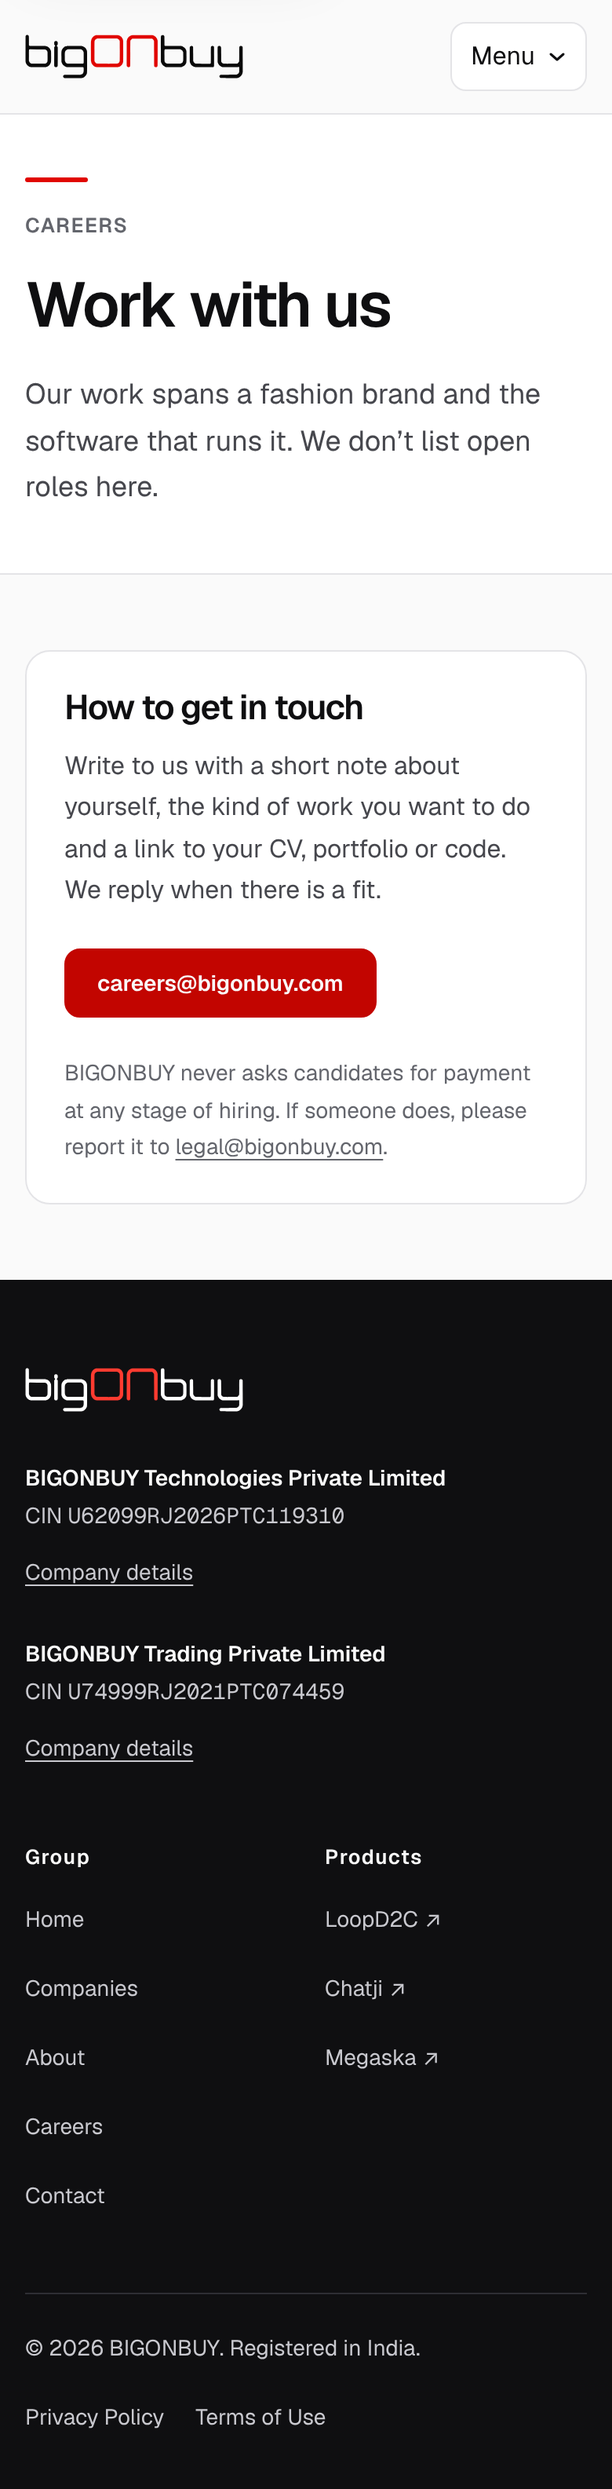
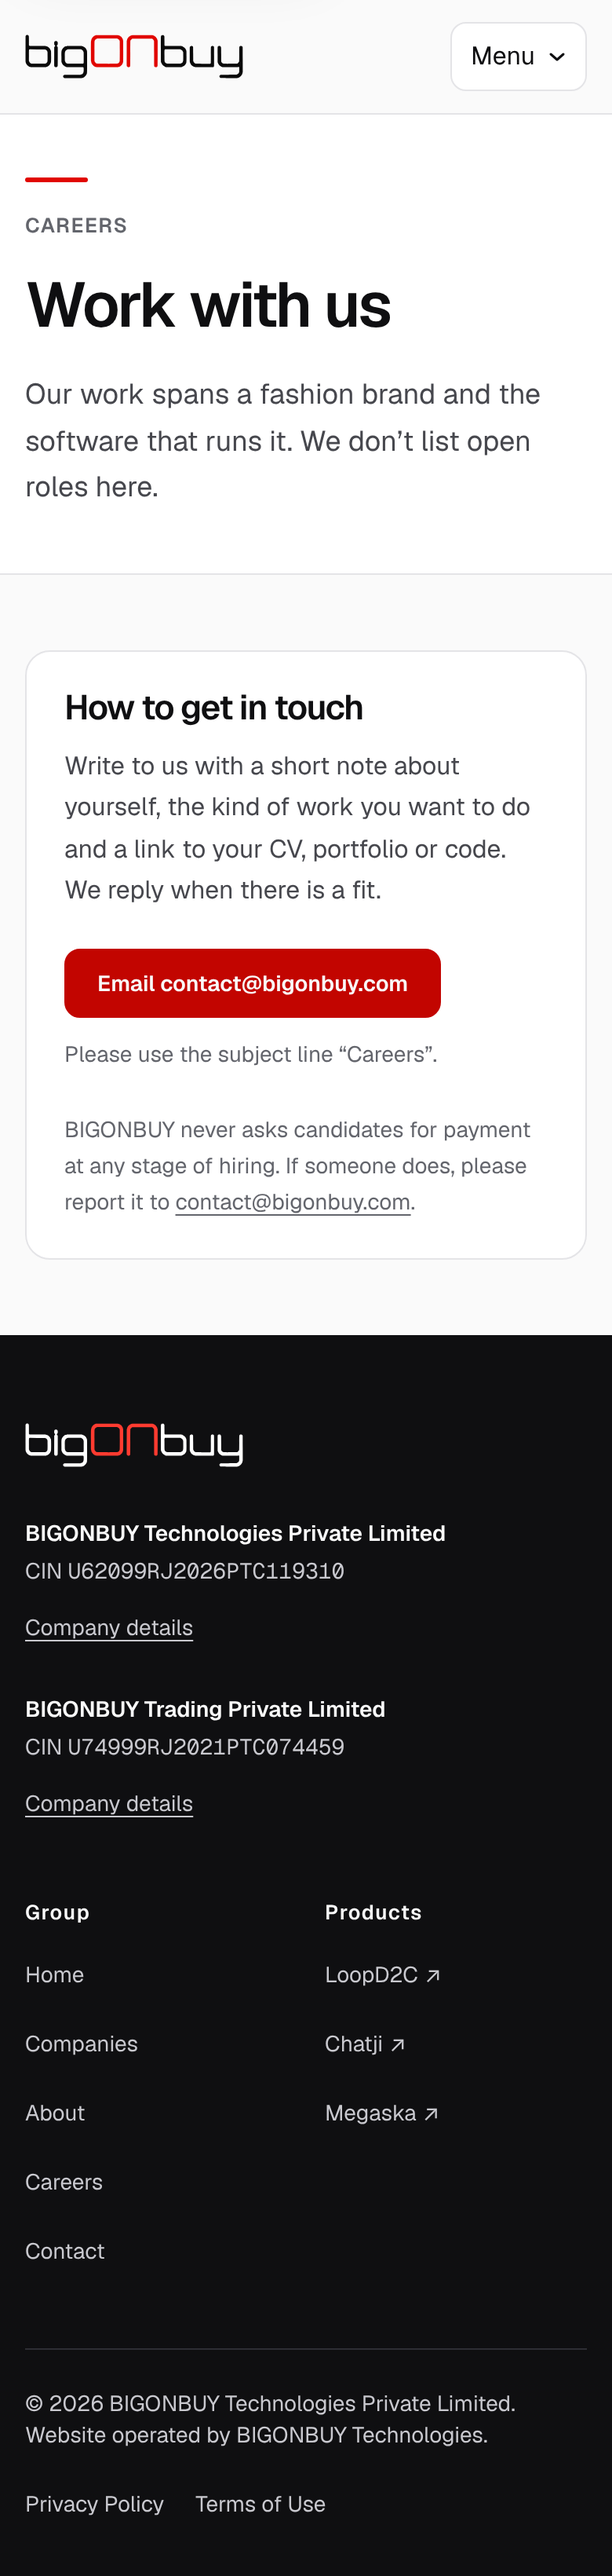
Use contact@bigonbuy.com for all enquiries; name Technologies as site operator
All contact routes share one mailbox with a pre-filled subject per topic.
The website operator is set once in config (BIGONBUY Technologies) and used
by the privacy policy, terms, footer and page metadata.

Claude-Session: https://claude.ai/code/session_01Jvz5mRUoQkmn8kLwUTEMgb

diff --git a/src/app/contact/page.tsx b/src/app/contact/page.tsx
@@ -2,7 +2,7 @@ import type { Metadata } from "next";
 import { ExternalLink } from "@/components/content/external-link";
 import { PageHeader } from "@/components/content/page-header";
 import { Container, Section, Text } from "@/components/foundation";
-import { companies, products, siteConfig } from "@/config/site";
+import { companies, products, siteConfig, CONTACT_EMAIL, mailtoHref } from "@/config/site";
 import { createPageMetadata } from "@/lib/metadata";
 
 export const metadata: Metadata = createPageMetadata({
@@ -19,19 +19,24 @@ export default function ContactPage() {
       <PageHeader
         eyebrow="Contact"
         title="Contact the group"
-        lead="For company matters, write to the right inbox below. If you are a customer of one of our products, please use that product’s support so your request reaches the right team."
+        lead="For company matters, write to us at the address below. If you are a customer of one of our products, please use that product’s support so your request reaches the right team."
       />
 
       <Section spacing="standard" aria-labelledby="group-contact-heading">
         <Container width="standard">
           <Text as="h2" role="h2" id="group-contact-heading">Company enquiries</Text>
+          <Text className="mt-3 max-w-[var(--content-reading)] text-[var(--color-foreground-muted)]">
+            Write to{" "}
+            <a href={`mailto:${CONTACT_EMAIL}`} className="font-semibold text-[var(--color-brand)] underline">{CONTACT_EMAIL}</a>
+            . Choosing a topic below opens your email app with the subject filled in, so your message reaches the right person faster.
+          </Text>
           <ul className="mt-8 grid list-none gap-5 p-0 sm:grid-cols-2">
             {groupRoutes.map((route) => (
-              <li key={route.id} className="rounded-[var(--radius-large)] border border-[var(--color-border)] bg-[var(--color-surface)] p-6">
+              <li key={route.id} className="flex flex-col rounded-[var(--radius-large)] border border-[var(--color-border)] bg-[var(--color-surface)] p-6">
                 <Text as="h3" role="body-large" className="font-semibold">{route.label}</Text>
-                <Text className="mt-1 text-[var(--color-foreground-muted)]">{route.description}</Text>
-                <a href={`mailto:${route.email}`} className="mt-4 inline-flex min-h-11 items-center font-medium text-[var(--color-brand)] underline">
-                  {route.email}
+                <Text className="mt-1 flex-1 text-[var(--color-foreground-muted)]">{route.description}</Text>
+                <a href={mailtoHref(route)} className="mt-4 inline-flex min-h-11 items-center font-medium text-[var(--color-brand)] underline">
+                  Email about {route.label.toLowerCase()}
                 </a>
               </li>
             ))}
@@ -43,7 +48,7 @@ export default function ContactPage() {
         <Container width="standard">
           <Text as="h2" role="h2" id="support-heading">Product support</Text>
           <Text className="mt-3 max-w-[var(--content-reading)] text-[var(--color-foreground-muted)]">
-            Orders, accounts, billing and app questions are handled by each product. The group inboxes above cannot
+            Orders, accounts, billing and app questions are handled by each product. The address above cannot
             look up orders or change accounts.
           </Text>
           <ul className="mt-8 grid list-none gap-5 p-0 md:grid-cols-3">

diff --git a/src/config/site.ts b/src/config/site.ts
@@ -7,6 +7,9 @@
  * testimonials, logos, ratings, funding or partnerships. No GSTIN or phone number unless provided.
  */
 
+/** The group's single public mailbox (to be set up on the bigonbuy.com domain). */
+export const CONTACT_EMAIL = "contact@bigonbuy.com";
+
 export type CompanyId = "technologies" | "trading";
 export type ProductId = "loopd2c" | "chatji" | "megaska";
 
@@ -58,6 +61,8 @@ export interface ContactRoute {
   readonly label: string;
   readonly description: string;
   readonly email: string;
+  /** Pre-filled subject so one shared inbox can be sorted by topic. */
+  readonly subject: string;
 }
 
 export const siteConfig = {
@@ -73,6 +78,8 @@ export const siteConfig = {
   },
   country: "India",
   jurisdictionCity: "Jaipur, Rajasthan",
+  /** The company that develops and operates bigonbuy.com (named in the privacy policy and terms). */
+  websiteOperatorId: "technologies",
 
   companies: [
     {
@@ -157,31 +164,35 @@ export const siteConfig = {
     { name: "Varun Dixit", role: "Co-founder and Director" },
   ],
 
-  // TODO(owner): confirm each mailbox exists before launch.
+  // One shared inbox for every route; the subject line tells requests apart.
   contacts: [
     {
       id: "partners",
       label: "Partnerships and business",
       description: "Partners, platforms, banks and payment providers.",
-      email: "hello@bigonbuy.com",
+      email: CONTACT_EMAIL,
+      subject: "Partnership enquiry",
     },
     {
       id: "legal",
       label: "Legal and compliance",
       description: "Verification requests, notices, privacy and grievances.",
-      email: "legal@bigonbuy.com",
+      email: CONTACT_EMAIL,
+      subject: "Legal and compliance",
     },
     {
       id: "press",
       label: "Press",
       description: "Media enquiries about the group or its founders.",
-      email: "hello@bigonbuy.com",
+      email: CONTACT_EMAIL,
+      subject: "Press enquiry",
     },
     {
       id: "careers",
       label: "Careers",
       description: "Applications and questions about working with us.",
-      email: "careers@bigonbuy.com",
+      email: CONTACT_EMAIL,
+      subject: "Careers",
     },
   ],
 } as const satisfies {
@@ -193,6 +204,7 @@ export const siteConfig = {
   description: string;
   country: string;
   jurisdictionCity: string;
+  websiteOperatorId: CompanyId;
   companies: readonly Company[];
   products: readonly Product[];
   founders: readonly Person[];
@@ -233,3 +245,12 @@ export const legalNavigation = [
   { href: "/legal/privacy", label: "Privacy Policy" },
   { href: "/legal/terms", label: "Terms of Use" },
 ] as const;
+
+export function mailtoHref(route: ContactRoute): string {
+  return `mailto:${route.email}?subject=${encodeURIComponent(route.subject)}`;
+}
+
+/** The company that develops and operates this website. */
+export function getWebsiteOperator(): Company {
+  return getCompany(siteConfig.websiteOperatorId);
+}

diff --git a/src/app/careers/page.tsx b/src/app/careers/page.tsx
@@ -1,13 +1,13 @@
 import type { Metadata } from "next";
 import { PageHeader } from "@/components/content/page-header";
 import { Container, Section, Text } from "@/components/foundation";
-import { getContact, siteConfig } from "@/config/site";
+import { getContact, siteConfig, mailtoHref } from "@/config/site";
 import { createPageMetadata } from "@/lib/metadata";
 
 export const metadata: Metadata = createPageMetadata({
   path: "/careers",
   title: "Careers",
-  description: `Working at ${siteConfig.groupName}: write to the careers team about roles across LoopD2C, Chatji and Megaska.`,
+  description: `Working at ${siteConfig.groupName}: write to us about roles across LoopD2C, Chatji and Megaska.`,
 });
 
 export default function CareersPage() {
@@ -29,14 +29,17 @@ export default function CareersPage() {
               CV, portfolio or code. We reply when there is a fit.
             </Text>
             <a
-              href={`mailto:${careers.email}`}
+              href={mailtoHref(careers)}
               className="mt-6 inline-flex min-h-11 items-center rounded-[var(--radius-medium)] border border-[var(--color-brand)] bg-[var(--color-brand)] px-5 text-sm font-semibold text-[var(--color-foreground-inverse)] no-underline hover:bg-[var(--color-brand-hover)]"
             >
-              {careers.email}
+              Email {careers.email}
             </a>
+            <Text role="body-small" className="mt-3 text-[var(--color-foreground-subtle)]">
+              Please use the subject line “{careers.subject}”.
+            </Text>
             <Text role="body-small" className="mt-6 text-[var(--color-foreground-subtle)]">
               {siteConfig.groupName} never asks candidates for payment at any stage of hiring. If someone does, please report it to{" "}
-              <a href={`mailto:${getContact("legal").email}`} className="underline">{getContact("legal").email}</a>.
+              <a href={mailtoHref(getContact("legal"))} className="underline">{getContact("legal").email}</a>.
             </Text>
           </div>
         </Container>

diff --git a/src/app/companies/[slug]/page.tsx b/src/app/companies/[slug]/page.tsx
@@ -4,7 +4,7 @@ import { notFound } from "next/navigation";
 import { CompanyDetails } from "@/components/company/company-details";
 import { PageHeader } from "@/components/content/page-header";
 import { Container, Section, Text } from "@/components/foundation";
-import { companies, getCompanyBySlug, getContact, siteConfig } from "@/config/site";
+import { companies, getCompanyBySlug, getContact, siteConfig, mailtoHref } from "@/config/site";
 import { createPageMetadata } from "@/lib/metadata";
 import { jsonLd, organizationSchema } from "@/lib/structured-data";
 
@@ -66,7 +66,7 @@ export default async function CompanyPage({ params }: Props) {
             <Text as="h2" role="h3">Verification requests</Text>
             <Text className="mt-4 text-[var(--color-foreground-muted)]">
               Banks, payment providers and platforms can request supporting documents for {company.legalName} by
-              writing to <a href={`mailto:${legal.email}`} className="font-medium text-[var(--color-brand)] underline">{legal.email}</a>.
+              writing to <a href={mailtoHref(legal)} className="font-medium text-[var(--color-brand)] underline">{legal.email}</a>.
               Company records can also be checked independently on the Ministry of Corporate Affairs portal.
             </Text>
             <a

diff --git a/src/app/legal/terms/page.tsx b/src/app/legal/terms/page.tsx
@@ -1,7 +1,7 @@
 import type { Metadata } from "next";
 import Link from "next/link";
 import { LegalDocument, type LegalSection } from "@/components/legal/legal-document";
-import { getCompany, getContact, siteConfig } from "@/config/site";
+import { getContact, getWebsiteOperator, siteConfig, mailtoHref } from "@/config/site";
 import { createPageMetadata } from "@/lib/metadata";
 
 export const metadata: Metadata = createPageMetadata({
@@ -11,7 +11,7 @@ export const metadata: Metadata = createPageMetadata({
 });
 
 export default function TermsPage() {
-  const operator = getCompany("technologies");
+  const operator = getWebsiteOperator();
   const legal = getContact("legal");
 
   const sections: LegalSection[] = [
@@ -88,7 +88,7 @@ export default function TermsPage() {
       title: "Changes and contact",
       content: (
         <p>
-          We may update these terms and will post the new version here. Questions: <a href={`mailto:${legal.email}`}>{legal.email}</a>.
+          We may update these terms and will post the new version here. Questions: <a href={mailtoHref(legal)}>{legal.email}</a>.
           See also our <Link href="/legal/privacy">Privacy Policy</Link>.
         </p>
       ),

diff --git a/src/components/site-shell/site-footer.tsx b/src/components/site-shell/site-footer.tsx
@@ -1,6 +1,6 @@
 import Link from "next/link";
 import { Container, Text } from "@/components/foundation";
-import { companies, legalNavigation, primaryNavigation, siteConfig } from "@/config/site";
+import { companies, getWebsiteOperator, legalNavigation, primaryNavigation, siteConfig } from "@/config/site";
 import { Wordmark } from "./wordmark";
 
 export function SiteFooter() {
@@ -63,7 +63,7 @@ export function SiteFooter() {
         </div>
 
         <div className="mt-10 flex flex-col gap-3 border-t border-[var(--color-border)] pt-6 text-sm text-[var(--color-foreground-muted)] sm:flex-row sm:items-center sm:justify-between">
-          <p>© {year} {siteConfig.groupName}. Registered in {siteConfig.country}.</p>
+          <p>© {year} {getWebsiteOperator().legalName}. Website operated by {getWebsiteOperator().shortName}.</p>
           <ul className="flex list-none flex-wrap gap-x-5 p-0">
             {legalNavigation.map((item) => (
               <li key={item.href}>

diff --git a/src/app/legal/privacy/page.tsx b/src/app/legal/privacy/page.tsx
@@ -1,7 +1,7 @@
 import type { Metadata } from "next";
 import Link from "next/link";
 import { LegalDocument, type LegalSection } from "@/components/legal/legal-document";
-import { getCompany, getContact, siteConfig } from "@/config/site";
+import { getContact, getWebsiteOperator, siteConfig, mailtoHref } from "@/config/site";
 import { createPageMetadata } from "@/lib/metadata";
 
 export const metadata: Metadata = createPageMetadata({
@@ -11,9 +11,9 @@ export const metadata: Metadata = createPageMetadata({
 });
 
 export default function PrivacyPage() {
-  const operator = getCompany("technologies");
+  const operator = getWebsiteOperator();
   const legal = getContact("legal");
-  const mail = <a href={`mailto:${legal.email}`}>{legal.email}</a>;
+  const mail = <a href={mailtoHref(legal)}>{legal.email}</a>;
 
   const sections: LegalSection[] = [
     {

diff --git a/src/app/layout.tsx b/src/app/layout.tsx
@@ -1,7 +1,7 @@
 import type { Metadata, Viewport } from "next";
 import { Geist, Geist_Mono } from "next/font/google";
 import { SiteFooter, SiteHeader, SkipLink } from "@/components/site-shell";
-import { siteConfig } from "@/config/site";
+import { getWebsiteOperator, siteConfig } from "@/config/site";
 import { robotsDirective } from "@/lib/metadata";
 import { getSiteUrl } from "@/lib/site-url";
 import "./globals.css";
@@ -16,6 +16,8 @@ export const metadata: Metadata = {
   title: { default: defaultTitle, template: `%s | ${siteConfig.groupName}` },
   description: siteConfig.description,
   applicationName: siteConfig.groupName,
+  creator: getWebsiteOperator().legalName,
+  publisher: getWebsiteOperator().legalName,
   formatDetection: { telephone: false, email: false, address: false },
   robots: robotsDirective(),
   openGraph: {
